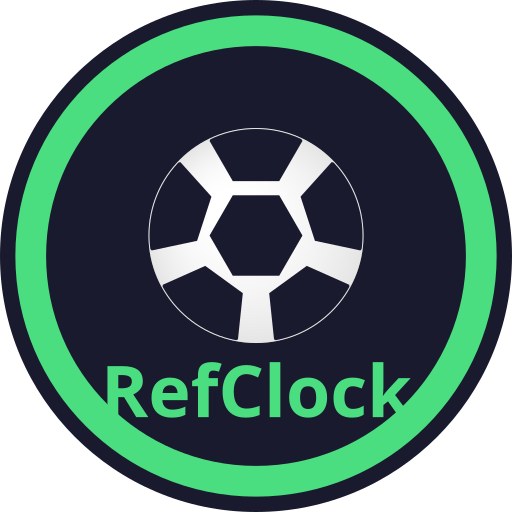
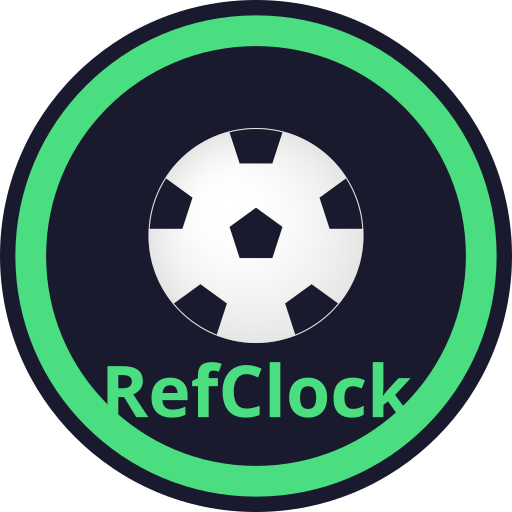
Pentagon patches, 40% smaller

Changed region(s): [[0.2812, 0.25, 0.7188, 0.6875]]

diff --git a/generate-icons.js b/generate-icons.js
@@ -45,30 +45,30 @@ function drawIcon(size) {
   ctx.arc(bx, by, ballR - 1, 0, Math.PI * 2);
   ctx.clip();
 
-  const patchR    = ballR * 0.432; // 50% bigger than previous 0.288
+  const patchR    = ballR * 0.259; // 40% smaller
   const patchDist = ballR * 0.88;
   ctx.fillStyle = '#1a1a2e';
 
-  function hexagon(px, py, pr, rotation) {
+  function pentagon(px, py, pr, rotation) {
     ctx.beginPath();
-    for (let i = 0; i < 6; i++) {
-      const a = (i * 60 + rotation) * Math.PI / 180;
+    for (let i = 0; i < 5; i++) {
+      const a = (i * 72 + rotation) * Math.PI / 180;
       i === 0 ? ctx.moveTo(px + Math.cos(a) * pr, py + Math.sin(a) * pr)
               : ctx.lineTo(px + Math.cos(a) * pr, py + Math.sin(a) * pr);
     }
     ctx.closePath();
   }
 
-  // Center hexagon (flat-top)
-  hexagon(bx, by, patchR, 0);
+  // Center pentagon (point up)
+  pentagon(bx, by, patchR, -90);
   ctx.fill();
 
-  // 5 surrounding hexagons — each rotated to face outward
+  // 5 surrounding pentagons — each rotated to face outward
   for (let i = 0; i < 5; i++) {
     const angle = (i * 72 - 90) * Math.PI / 180;
     const px = bx + Math.cos(angle) * patchDist;
     const py = by + Math.sin(angle) * patchDist;
-    hexagon(px, py, patchR, i * 72 - 90 + 30);
+    pentagon(px, py, patchR, i * 72 - 90);
     ctx.fill();
   }
 
